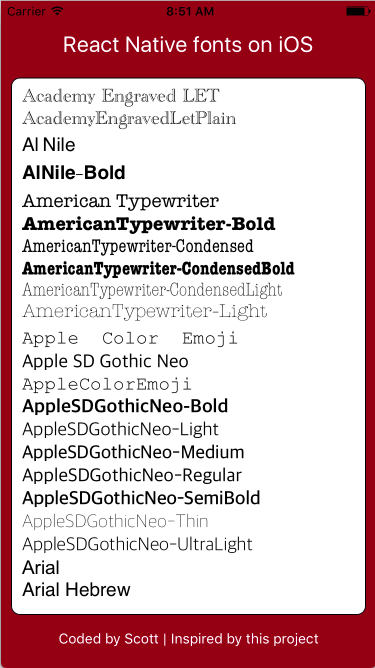
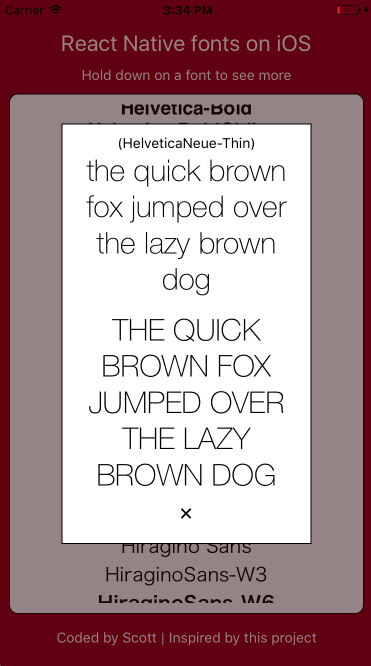
Update README with new screenshot showing modal

diff --git a/README.md b/README.md
@@ -1,7 +1,9 @@
 # FontDisplayer
 ### A React Native app that displays previews of all available fonts on iOS. 
 
-After searching on the Internet for a website that displays all available fonts on iOS for React Native, I came across [this repo](https://github.com/dabit3/react-native-fonts) and was inspired to build this app.
+After searching for a resource that displays all available fonts on iOS for React Native, I came across [this repo](https://github.com/dabit3/react-native-fonts) and was inspired to build this app.
+
+Directions: Scroll through the list of available fonts and hold down on the name of a font to see a quick example.
 
 Screenshot:
 
